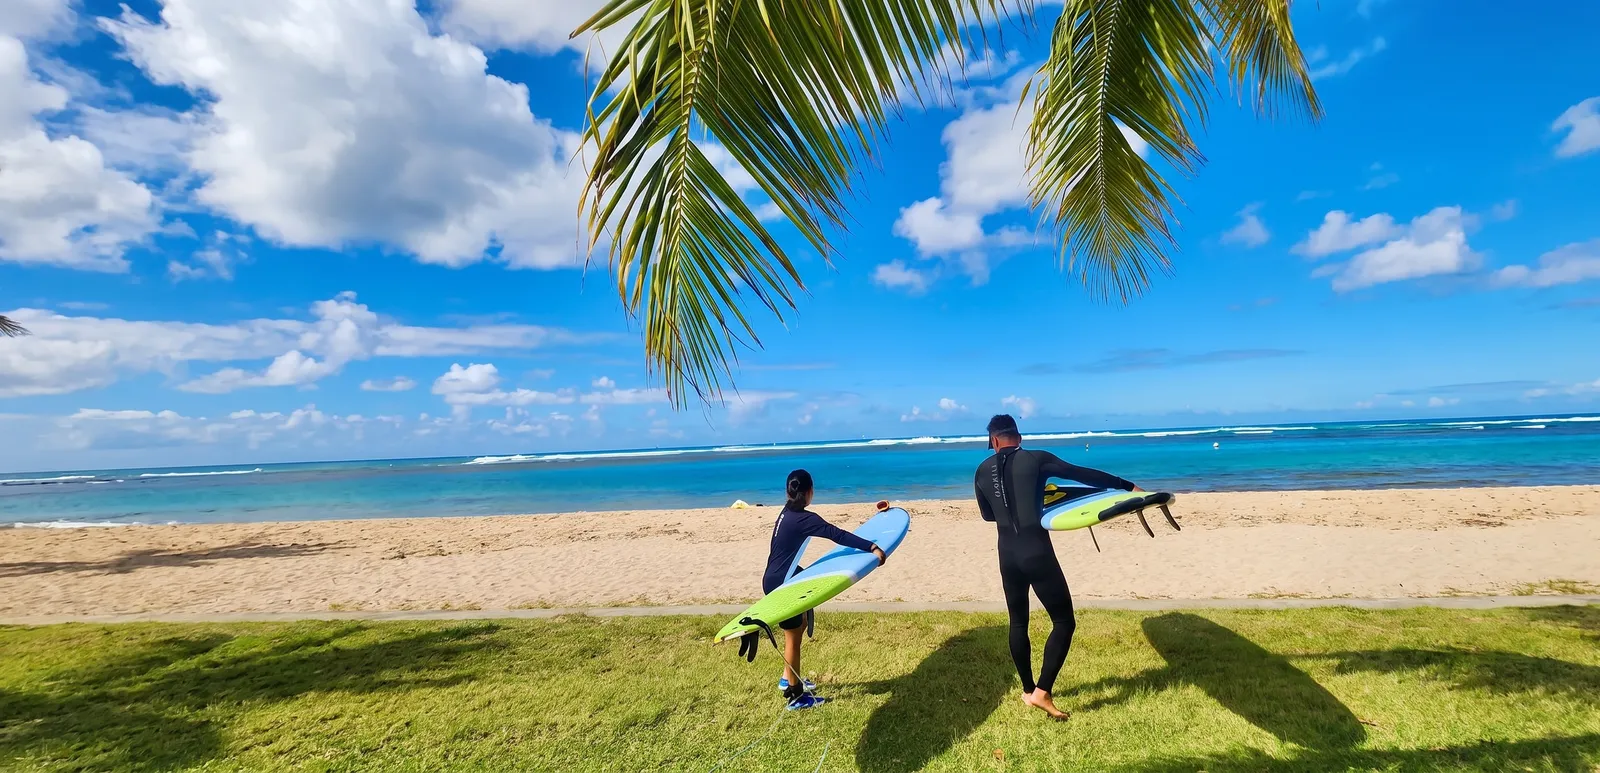
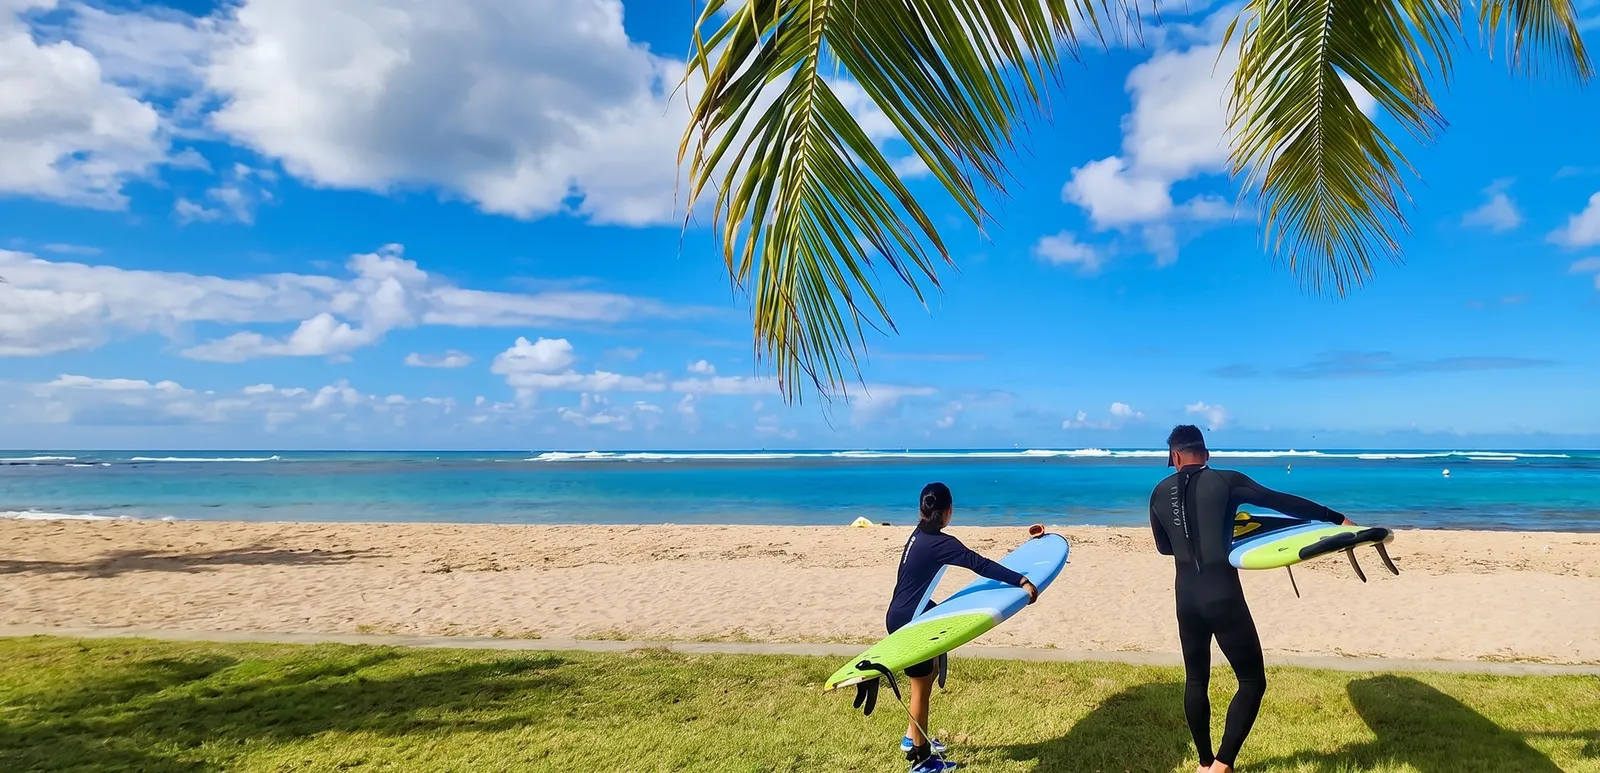
Surf hero: level the horizon
Both hero images are rotated 2.2 degrees and re-cropped so the sea horizon
is flat (left-right difference under 6px, was about 100px). The mobile
image sits a little lower so the riders stay clear of the review pill.

Claude-Session: https://claude.ai/code/session_013pcx89j3zvmSQ7DeVKpmNj

diff --git a/docs/design-canvas/v3/DetailComboKo_M.dc.html b/docs/design-canvas/v3/DetailComboKo_M.dc.html
@@ -160,6 +160,7 @@ h1,h2,h3,h4{font-family:'SUIT',system-ui,sans-serif;color:var(--ink);letter-spac
 .hero.private .hero-in{text-shadow:0 2px 6px rgba(9,16,22,.28),0 2px 22px rgba(9,16,22,.42)}
 /* 폰에서는 리뷰 알약이 사람 얼굴에 걸려 뺀다(운영자 요청). 리뷰 수는 아래 푸터에도 있다. */
 .hero.private .hero-in .rev{display:none}
+.hero.surf .hero-img{top:0}  /* 수평 보정으로 위가 조금 잘려, 사람이 알약에 닿지 않게 사진을 내린다 */
 
 /* 콤보 — 패러세일링 · 제트스키. 폰에서는 사진을 위로. */
 .acts{margin-top:24px;display:grid;gap:18px}

diff --git a/docs/design-canvas/v3/DetailKo_M.dc.html b/docs/design-canvas/v3/DetailKo_M.dc.html
@@ -160,6 +160,7 @@ h1,h2,h3,h4{font-family:'SUIT',system-ui,sans-serif;color:var(--ink);letter-spac
 .hero.private .hero-in{text-shadow:0 2px 6px rgba(9,16,22,.28),0 2px 22px rgba(9,16,22,.42)}
 /* 폰에서는 리뷰 알약이 사람 얼굴에 걸려 뺀다(운영자 요청). 리뷰 수는 아래 푸터에도 있다. */
 .hero.private .hero-in .rev{display:none}
+.hero.surf .hero-img{top:0}  /* 수평 보정으로 위가 조금 잘려, 사람이 알약에 닿지 않게 사진을 내린다 */
 
 /* 콤보 — 패러세일링 · 제트스키. 폰에서는 사진을 위로. */
 .acts{margin-top:24px;display:grid;gap:18px}

diff --git a/docs/design-canvas/v3/DetailPrivateKo_M.dc.html b/docs/design-canvas/v3/DetailPrivateKo_M.dc.html
@@ -160,6 +160,7 @@ h1,h2,h3,h4{font-family:'SUIT',system-ui,sans-serif;color:var(--ink);letter-spac
 .hero.private .hero-in{text-shadow:0 2px 6px rgba(9,16,22,.28),0 2px 22px rgba(9,16,22,.42)}
 /* 폰에서는 리뷰 알약이 사람 얼굴에 걸려 뺀다(운영자 요청). 리뷰 수는 아래 푸터에도 있다. */
 .hero.private .hero-in .rev{display:none}
+.hero.surf .hero-img{top:0}  /* 수평 보정으로 위가 조금 잘려, 사람이 알약에 닿지 않게 사진을 내린다 */
 
 /* 콤보 — 패러세일링 · 제트스키. 폰에서는 사진을 위로. */
 .acts{margin-top:24px;display:grid;gap:18px}

diff --git a/docs/design-canvas/v3/DetailSunsetKo_M.dc.html b/docs/design-canvas/v3/DetailSunsetKo_M.dc.html
@@ -160,6 +160,7 @@ h1,h2,h3,h4{font-family:'SUIT',system-ui,sans-serif;color:var(--ink);letter-spac
 .hero.private .hero-in{text-shadow:0 2px 6px rgba(9,16,22,.28),0 2px 22px rgba(9,16,22,.42)}
 /* 폰에서는 리뷰 알약이 사람 얼굴에 걸려 뺀다(운영자 요청). 리뷰 수는 아래 푸터에도 있다. */
 .hero.private .hero-in .rev{display:none}
+.hero.surf .hero-img{top:0}  /* 수평 보정으로 위가 조금 잘려, 사람이 알약에 닿지 않게 사진을 내린다 */
 
 /* 콤보 — 패러세일링 · 제트스키. 폰에서는 사진을 위로. */
 .acts{margin-top:24px;display:grid;gap:18px}

diff --git a/docs/design-canvas/v3/DetailSurfKo_M.dc.html b/docs/design-canvas/v3/DetailSurfKo_M.dc.html
@@ -160,6 +160,7 @@ h1,h2,h3,h4{font-family:'SUIT',system-ui,sans-serif;color:var(--ink);letter-spac
 .hero.private .hero-in{text-shadow:0 2px 6px rgba(9,16,22,.28),0 2px 22px rgba(9,16,22,.42)}
 /* 폰에서는 리뷰 알약이 사람 얼굴에 걸려 뺀다(운영자 요청). 리뷰 수는 아래 푸터에도 있다. */
 .hero.private .hero-in .rev{display:none}
+.hero.surf .hero-img{top:0}  /* 수평 보정으로 위가 조금 잘려, 사람이 알약에 닿지 않게 사진을 내린다 */
 
 /* 콤보 — 패러세일링 · 제트스키. 폰에서는 사진을 위로. */
 .acts{margin-top:24px;display:grid;gap:18px}

diff --git a/docs/design-canvas/v3/build_detail.py b/docs/design-canvas/v3/build_detail.py
@@ -663,6 +663,7 @@ CSS_M = BASE + """
 .hero.private .hero-in{text-shadow:0 2px 6px rgba(9,16,22,.28),0 2px 22px rgba(9,16,22,.42)}
 /* 폰에서는 리뷰 알약이 사람 얼굴에 걸려 뺀다(운영자 요청). 리뷰 수는 아래 푸터에도 있다. */
 .hero.private .hero-in .rev{display:none}
+.hero.surf .hero-img{top:0}  /* 수평 보정으로 위가 조금 잘려, 사람이 알약에 닿지 않게 사진을 내린다 */
 
 /* 콤보 — 패러세일링 · 제트스키. 폰에서는 사진을 위로. */
 .acts{margin-top:24px;display:grid;gap:18px}
